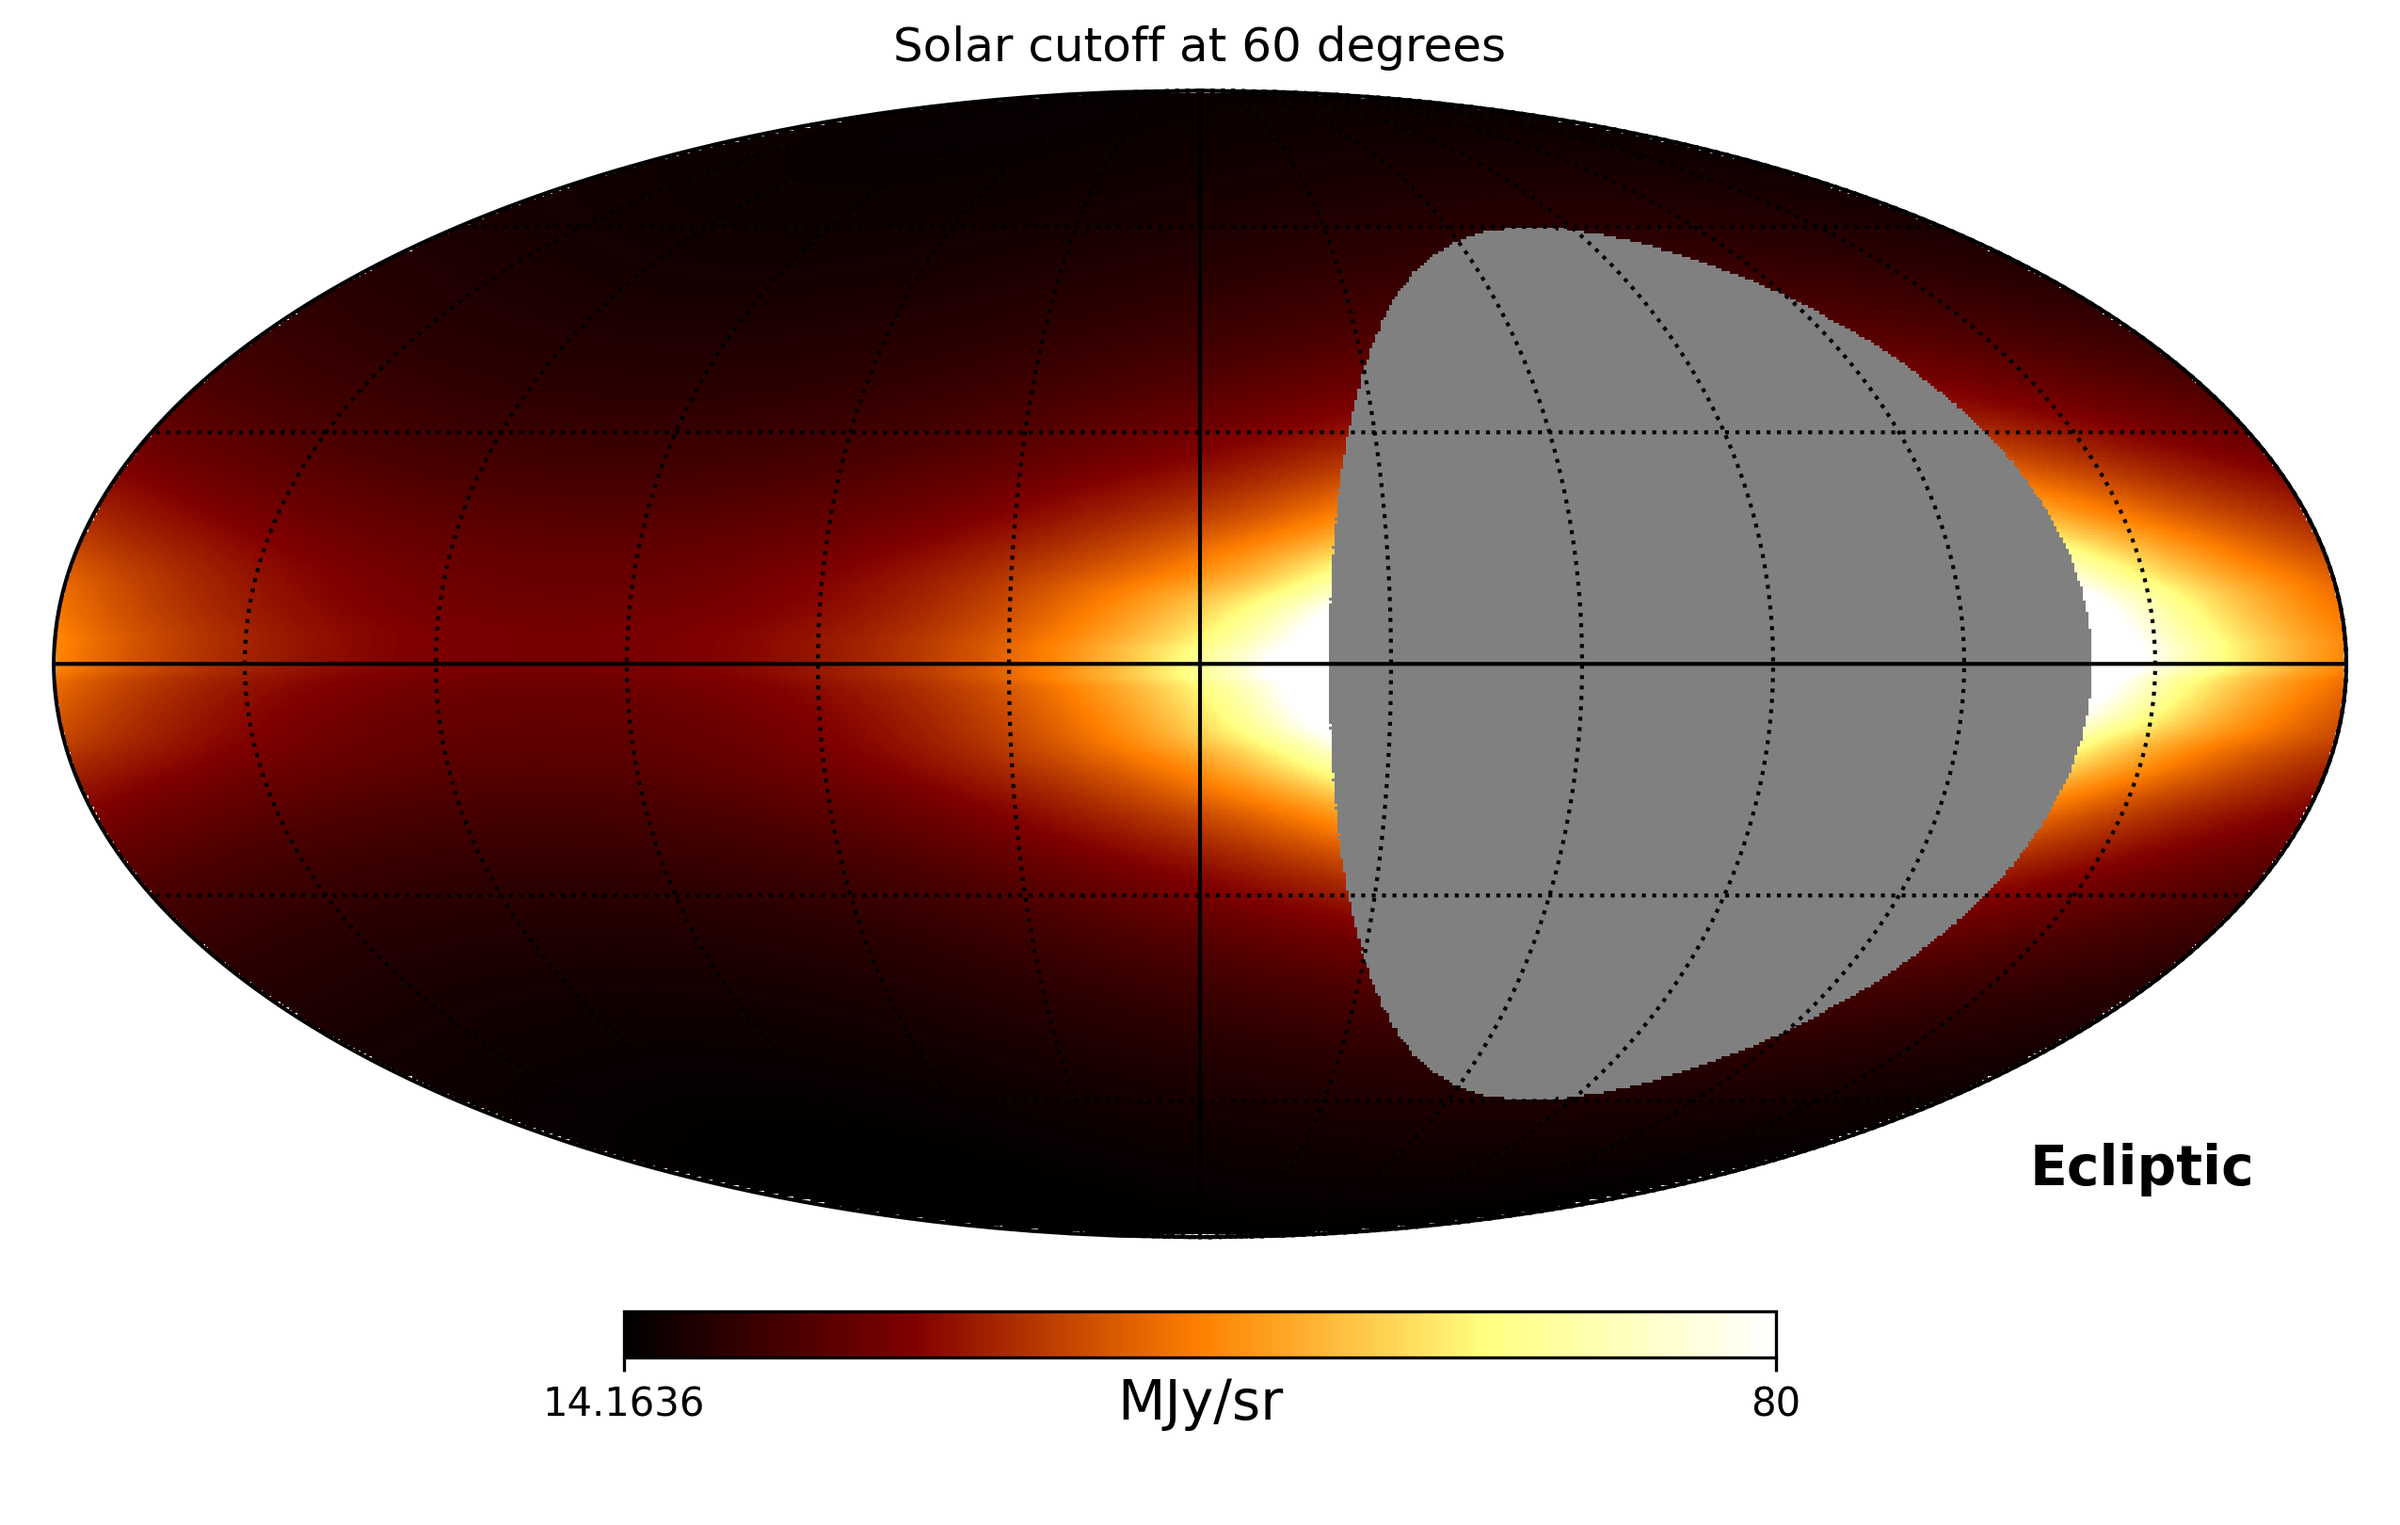
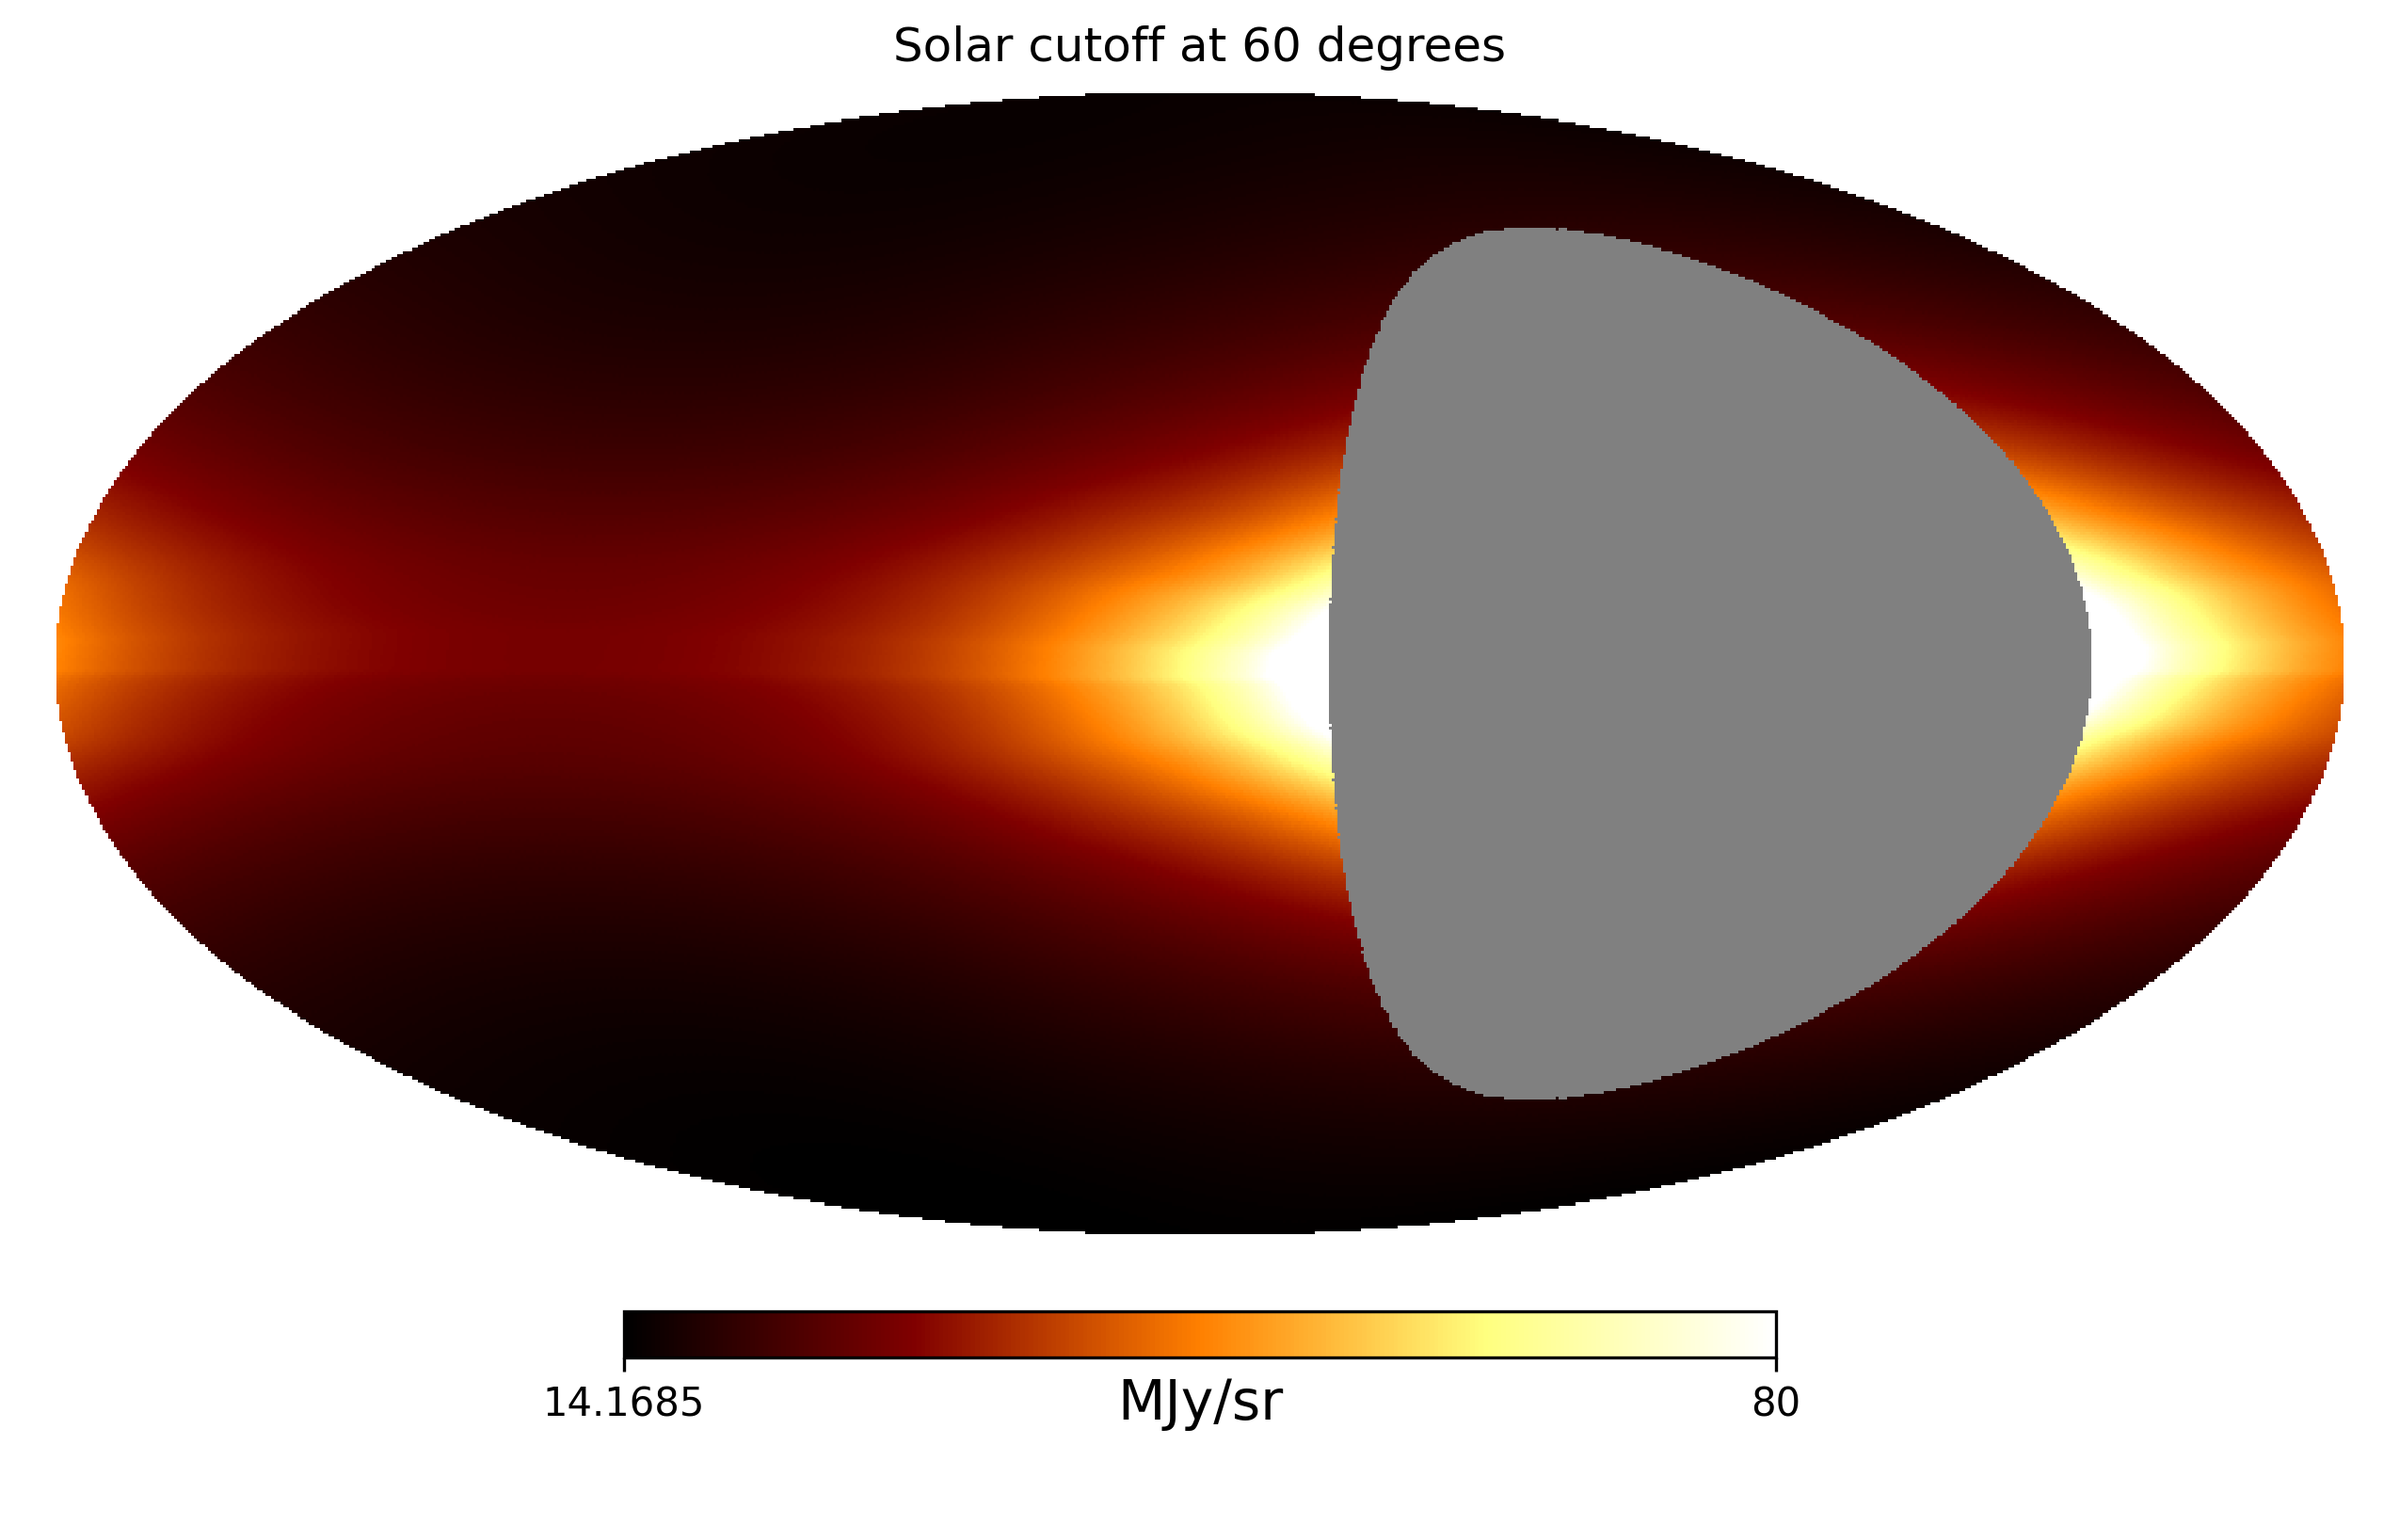
Fix bug where the new precomputed bandpass table resultet in unit errors for bandpasses in GHz. Update documentation

diff --git a/zodipy/zodipy.py b/zodipy/zodipy.py
@@ -90,7 +90,7 @@ class Zodipy:
         self.ephemeris = ephemeris
 
         self.ipd_model = model_registry.get_model(model)
-        self.gauss_points, self.gauss_weights = np.polynomial.legendre.leggauss(
+        self.gauss_points_and_weights = np.polynomial.legendre.leggauss(
             gauss_quad_degree
         )
 
@@ -490,11 +490,7 @@ class Zodipy:
                     proc_chunks = [
                         pool.apply_async(
                             _integrate_gauss_quad,
-                            args=(
-                                comp_integrand,
-                                self.gauss_points,
-                                self.gauss_weights,
-                            ),
+                            args=(comp_integrand, self.gauss_points_and_weights),
                         )
                         for comp_integrand in comp_integrands
                     ]
@@ -522,11 +518,7 @@ class Zodipy:
                 )
 
                 integrated_comp_emission[idx] = (
-                    _integrate_gauss_quad(
-                        fn=comp_integrand,
-                        points=self.gauss_points,
-                        weights=self.gauss_weights,
-                    )
+                    _integrate_gauss_quad(comp_integrand, self.gauss_points_and_weights)
                     * 0.5
                     * (stop[comp_label] - start[comp_label])
                 )
@@ -572,8 +564,7 @@ class Zodipy:
 
 def _integrate_gauss_quad(
     fn: Callable[[float], npt.NDArray[np.float64]],
-    points: npt.NDArray[np.float64],
-    weights: npt.NDArray[np.float64],
+    points_and_weights: tuple[npt.NDArray[np.float64], npt.NDArray[np.float64]],
 ) -> npt.NDArray[np.float64]:
     """Integrate the emission from a component using Gauss-Legendre quadrature."""
-    return np.squeeze(sum(fn(point) * weight for point, weight in zip(points, weights)))
+    return np.squeeze(sum(fn(x) * w for x, w in zip(*points_and_weights)))

diff --git a/docs/examples/get_bandpass_integrated_emission.py b/docs/examples/get_bandpass_integrated_emission.py
@@ -8,16 +8,16 @@ from zodipy import Zodipy
 
 nside = 128
 
-center_freq = 25 * u.micron
-freqs = np.linspace(20, 30, 11) * u.micron
+center_freq = 800 * u.GHz
+freqs = np.linspace(750, 850, 11) * u.GHz
 weights = np.array([2, 3, 5, 9, 11, 11.5, 11, 9, 5, 3, 2])
 
 plt.plot(freqs, weights)
-plt.xlabel("Frequency [micron]")
+plt.xlabel("Frequency [GHz]")
 plt.ylabel("Weights")
 plt.savefig("../img/bandpass.png", dpi=300)
 
-model = Zodipy()
+model = Zodipy(model="planck18")
 
 emission_central_freq = model.get_binned_emission_pix(
     freq=center_freq,
@@ -40,8 +40,8 @@ hp.mollview(
     emission_central_freq,
     title=f"Center frequency",
     unit="MJy/sr",
-    norm="log",
     cmap="afmhot",
+    norm="log",
 )
 plt.savefig("../img/center_freq.png", dpi=300)
 
@@ -49,8 +49,8 @@ hp.mollview(
     emission_bandpass_integrated,
     title="Bandpass integrated",
     unit="MJy/sr",
-    norm="log",
     cmap="afmhot",
+    norm="log",
 )
 plt.savefig("../img/bandpass_integrated.png", dpi=300)
 plt.show()

diff --git a/docs/examples/get_parallel_emission.py b/docs/examples/get_parallel_emission.py
@@ -6,14 +6,14 @@ import healpy as hp
 import numpy as np
 from astropy.time import Time
 
-import zodipy
+from zodipy import Zodipy
 
 nside = 256
 pixels = np.arange(hp.nside2npix(nside))
 obs_time = Time("2020-01-01")
 
-model = zodipy.Zodipy(parallel=False)
-model_parallel = zodipy.Zodipy()
+model = Zodipy()
+model_parallel = Zodipy(parallel=True)
 
 start = time.perf_counter()
 emission = model.get_binned_emission_pix(
@@ -23,7 +23,7 @@ emission = model.get_binned_emission_pix(
     obs_time=obs_time,
 )
 print("Time spent on a single CPU:", round(time.perf_counter() - start, 2), "seconds")
-# > Time spent on a single CPU: 91.76 seconds
+# > Time spent on a single CPU: 35.23 seconds
 
 start = time.perf_counter()
 emission_parallel = model_parallel.get_binned_emission_pix(
@@ -37,6 +37,6 @@ print(
     round(time.perf_counter() - start, 2),
     "seconds",
 )
-# > Time spent on 8 CPUs: 26.87 seconds
+# > Time spent on 8 CPUs: 12.85 seconds
 
 assert np.allclose(emission, emission_parallel)

diff --git a/zodipy/_interpolate_source.py b/zodipy/_interpolate_source.py
@@ -64,12 +64,12 @@ def get_source_parameters_kelsall_comp(
         )
 
     if model.solar_irradiance is not None:
-        solar_irradiance = interpolator(y=model.solar_irradiance.value)(
+        solar_irradiance = interpolator(y=model.solar_irradiance)(
             bandpass.frequencies.value
         )
-        solar_irradiance = u.Quantity(
-            solar_irradiance, model.solar_irradiance.unit
-        ).to_value(SPECIFIC_INTENSITY_UNITS, equivalencies=u.spectral())
+        solar_irradiance = u.Quantity(solar_irradiance, "MJy /sr").to_value(
+            SPECIFIC_INTENSITY_UNITS, equivalencies=u.spectral()
+        )
     else:
         solar_irradiance = 0
 

diff --git a/docs/examples/get_binned_gal_emission.py b/docs/examples/get_binned_gal_emission.py
@@ -13,20 +13,18 @@ binned_emission = model.get_binned_emission_pix(
     857 * u.GHz,
     pixels=np.arange(hp.nside2npix(nside)),
     nside=nside,
-    obs_time=Time("2022-06-14"),
+    obs_time=Time("2022-02-20"),
     obs="earth",
     coord_in="G",  # Coordinates of the input pointing
 )
 
 hp.mollview(
     binned_emission,
-    title="Binned zodiacal emission  at 857 GHz",
+    title="Binned zodiacal emission at 857 GHz",
     unit="MJy/sr",
-    coord="G",
-    max=1,
-    norm="log",
     cmap="afmhot",
+    min=0,
+    max=1,
 )
-hp.graticule(coord="E")
-# plt.savefig("../img/binned_gal.png", dpi=300)
+plt.savefig("../img/binned_gal.png", dpi=300)
 plt.show()

diff --git a/zodipy/_ipd_model.py b/zodipy/_ipd_model.py
@@ -4,8 +4,6 @@ from abc import ABC
 from dataclasses import dataclass, field
 from typing import Mapping, Sequence
 
-import astropy.units as u
-
 from zodipy._ipd_comps import Component, ComponentLabel
 from zodipy._types import FrequencyOrWavelength
 
@@ -40,7 +38,7 @@ class Kelsall(InterplanetaryDustModel):
     delta: float
     emissivities: Mapping[ComponentLabel, Sequence[float]]
     albedos: Mapping[ComponentLabel, Sequence[float]] | None = None
-    solar_irradiance: u.Quantity[u.MJy / u.sr] | None = None
+    solar_irradiance: Sequence[float] | None = None  # In units of MJy/sr
     phase_coefficients: Sequence[Sequence[float]] | None = None
 
 

diff --git a/docs/examples/get_emission_ang.py b/docs/examples/get_emission_ang.py
@@ -6,20 +6,21 @@ from zodipy import Zodipy
 
 model = Zodipy("dirbe")
 
-theta = np.linspace(0, np.pi, 10000) * u.rad
-phi = np.zeros_like(theta)
+latitudes = np.linspace(-90, 90, 10000) * u.deg
+longitudes = np.zeros_like(latitudes)
 
 emission = model.get_emission_ang(
     30 * u.micron,
-    theta=theta,
-    phi=phi,
+    theta=longitudes,
+    phi=latitudes,
+    lonlat=True,
     obs_time=Time("2022-06-14"),
     obs="earth",
 )
 
 
-plt.plot(theta, emission)
-plt.xlabel("Theta [rad]")
+plt.plot(latitudes, emission)
+plt.xlabel("Latitude [deg]")
 plt.ylabel("Emission [MJy/sr]")
 plt.savefig("../img/timestream.png", dpi=300)
 plt.show()

diff --git a/zodipy/_bandpass.py b/zodipy/_bandpass.py
@@ -62,6 +62,8 @@ def get_bandpass_interpolation_table(
     # Prepare bandpass to be integrated in power units and in frequency convention.
     if not bandpass.frequencies.unit.is_equivalent(u.Hz):
         bandpass.switch_convention()
+    else:
+        bandpass.frequencies = bandpass.frequencies.to(u.Hz)
 
     integrals = np.zeros(n_points)
     temp_grid = np.linspace(min_temp, max_temp, n_points)

diff --git a/docs/examples/get_binned_emission.py b/docs/examples/get_binned_emission.py
@@ -21,11 +21,9 @@ hp.mollview(
     binned_emission,
     title="Binned zodiacal emission at 857 GHz",
     unit="MJy/sr",
+    min=0,
     max=1,
-    norm="log",
-    coord="E",
     cmap="afmhot",
 )
-hp.graticule()
-# plt.savefig("../img/binned.png", dpi=300)
+plt.savefig("../img/binned.png", dpi=300)
 plt.show()

diff --git a/docs/examples/get_binned_emission_solar_cutoff.py b/docs/examples/get_binned_emission_solar_cutoff.py
@@ -25,6 +25,5 @@ hp.mollview(
     coord="E",
     cmap="afmhot",
 )
-hp.graticule()
-# plt.savefig("../img/binned_solar_cutoff.png", dpi=300)
+plt.savefig("../img/binned_solar_cutoff.png", dpi=300)
 plt.show()

diff --git a/zodipy/source_params.py b/zodipy/source_params.py
@@ -231,4 +231,4 @@ SOLAR_IRRADIANCE_DIRBE = [
     82999.336,
     42346.605,
     14409.608,
-] * (u.MJy / u.sr)
+]

diff --git a/docs/usage.md b/docs/usage.md
@@ -36,6 +36,19 @@ as seen by an observer on earth on 14 June, 2022 given the Planck 2018 interplan
 ![Zodiacal emission map](img/binned.png)
 *Note that the color bar is logarithmic.*
 
+
+### Bandpass integrated emission
+Instruments do not typically observe at delta frequencies. Usually, we are more interested in finding out
+what the emission looks like over some instrument bandpass. ZodiPy will accept a sequence of frequencies to the `freq`
+argument in addition to the corresponding bandpass weights to the `weights` argument and perform bandpass integration. 
+Note that the bandpass weights must be in spectral radiance units (Jy/sr), even though the weights them self are unitless. A top hat bandpass is assumed if a sequence of frequencies are used without providing weights.
+```python hl_lines="11 12 13 31 32"
+{!examples/get_bandpass_integrated_emission.py!}
+```
+![Generated Bandpass](img/bandpass.png)
+![Center frequency emission](img/center_freq.png)
+![Bandpass integrated emission](img/bandpass_integrated.png)
+
 ### Solar cutoff angle
 Few experiments look directly in towards the Sun. We can initialize `Zodipy` with the `solar_cut` 
 argument to mask all input pointing that looks in towards the sun with an angular distance smaller 
@@ -47,14 +60,13 @@ than the `solar_cut` value.
 ![Zodiacal emission map](img/binned_solar_cutoff.png)
 
 
-### Instantaneous map in Galactic coordinates
-We can make the same map in galactic coordinates by specifying that the input pointing is in galactic coordinates.
+### Non-ecliptic coordinates
+We can specify the coordinate system of the input pointing with the `coord_in` keyword
 
 ```python hl_lines="18"
 {!examples/get_binned_gal_emission.py!}
 ```
 ![Zodiacal emission map galactic](img/binned_gal.png)
-*Note that the color bar is logarithmic.*
 
 
 ### Component-wise maps
@@ -68,19 +80,6 @@ read [Cosmoglobe: Simulating Zodiacal Emission with ZodiPy](https://arxiv.org/ab
 ```
 ![Component-wise emission maps](img/binned_comp.png)
 *Note that the color for the Cloud component is logarithmic, while the others are linear.*
-
-
-### Bandpass integrated emission
-Instruments do not typically observe at delta frequencies. Usually, we are more interested in finding out
-what the emission looks like over some instrument bandpass. ZodiPy will accept a sequence of frequencies to the `freq`
-argument in addition to the corresponding bandpass weights to the `weights` argument and perform bandpass integration. 
-Note that the bandpass weights must be in spectral radiance units (Jy/sr), even though the weights them self are unitless. A top hat bandpass is assumed if a sequence of frequencies are used without providing weights.
-```python hl_lines="32 33"
-{!examples/get_bandpass_integrated_emission.py!}
-```
-![Generated Bandpass](img/bandpass.png)
-![Center frequency emission](img/center_freq.png)
-![Bandpass integrated emission](img/bandpass_integrated.png)
 
 
 ## Parallelization
